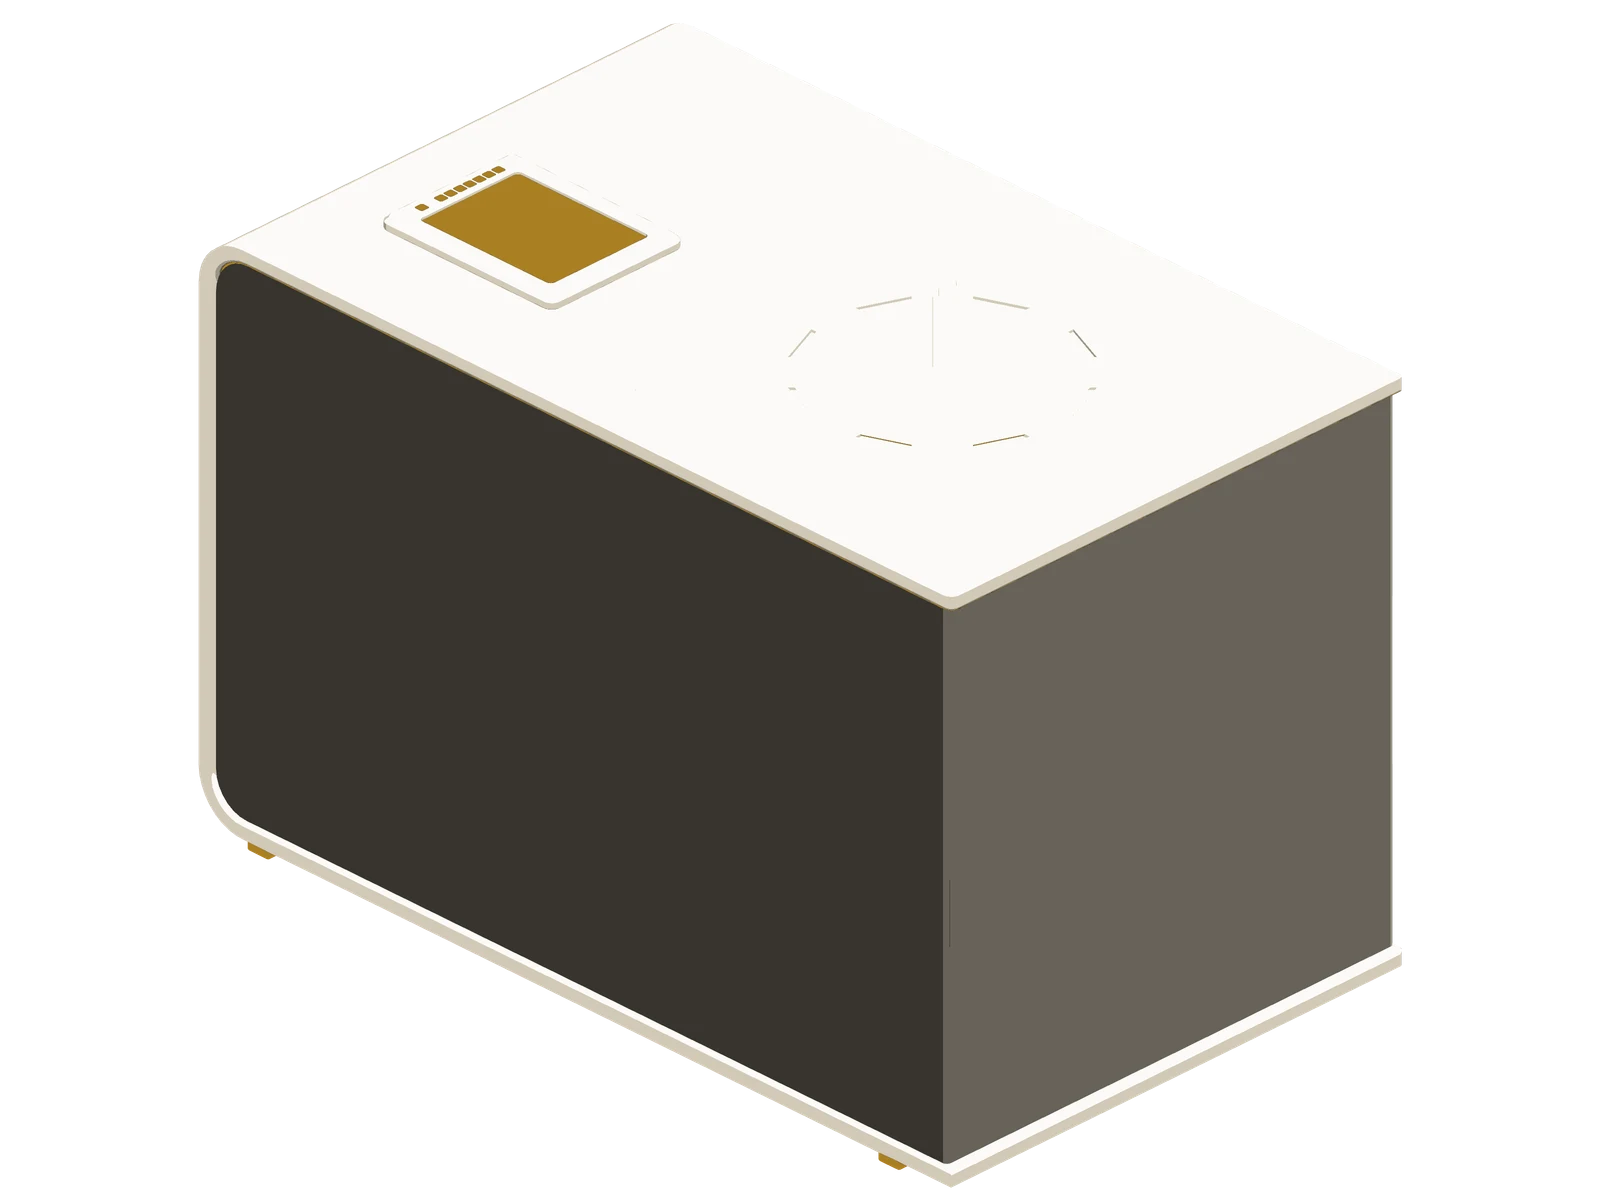
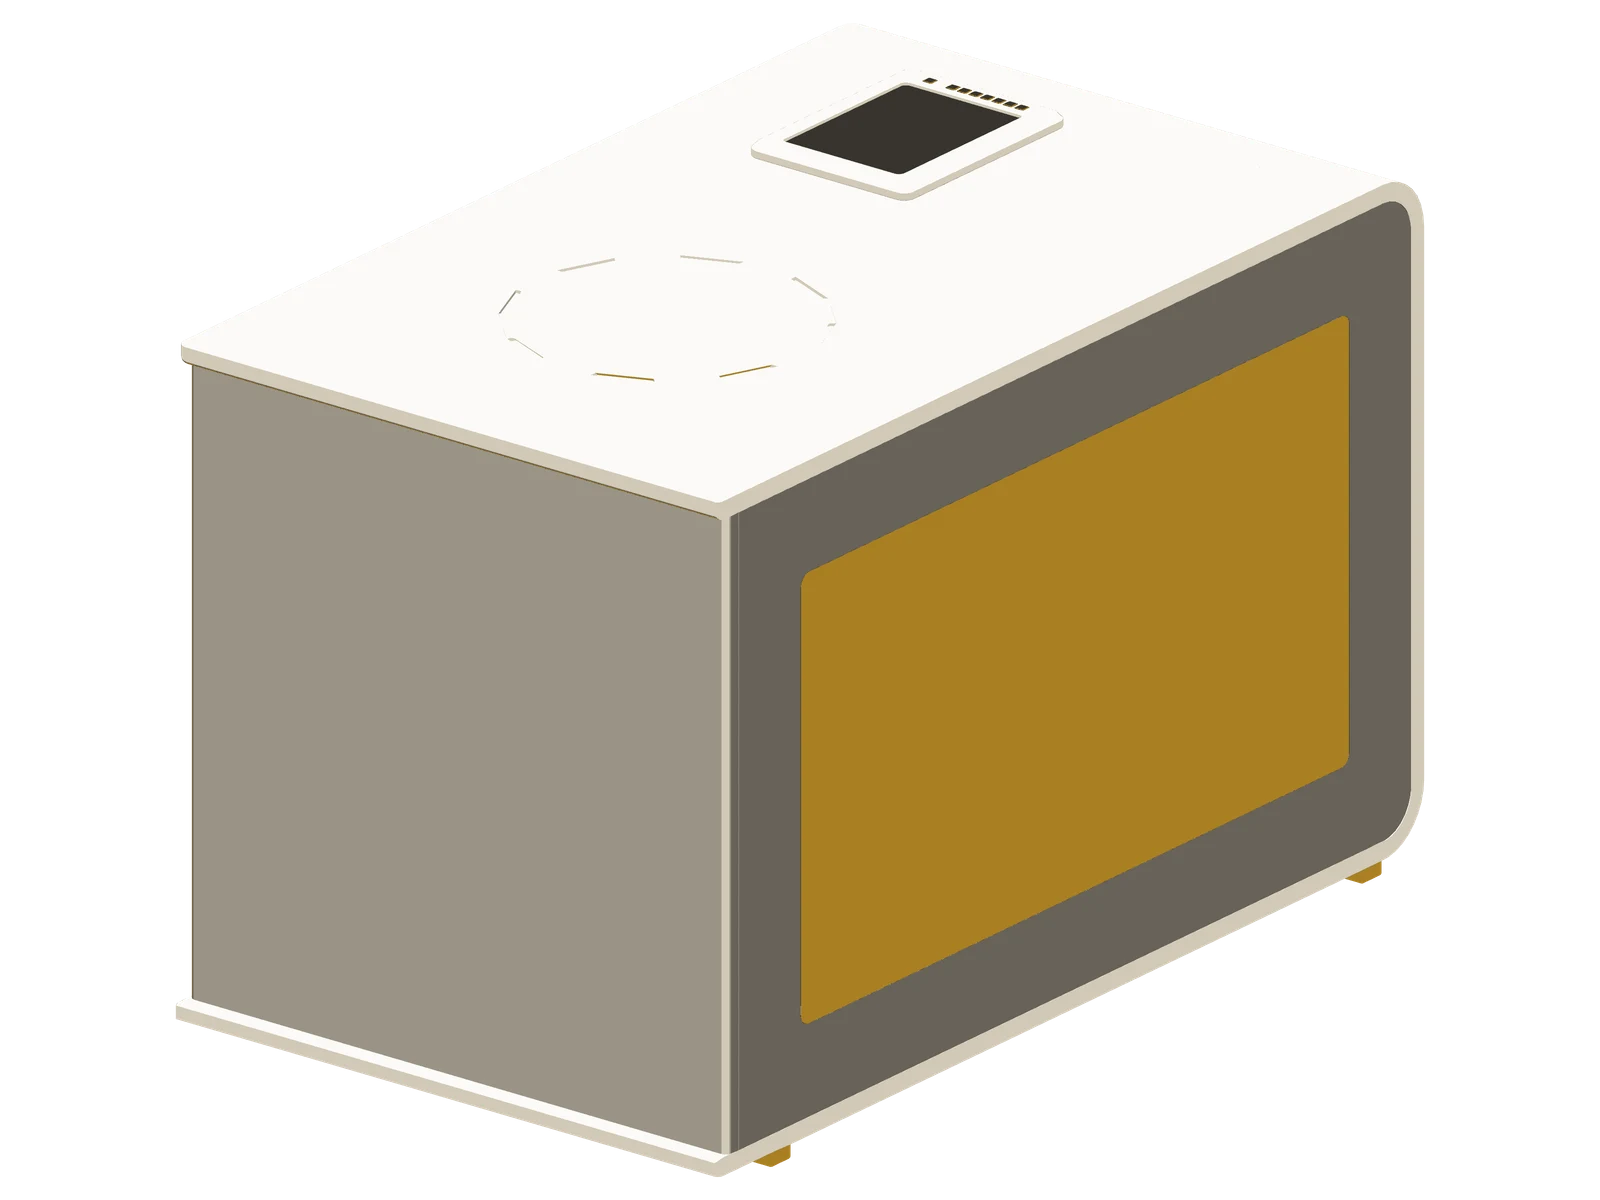
沙拉售卖机展示图改用首屏动画的初始视角（新增 view: hero）
Claude-Session: https://claude.ai/code/session_01RHnTsTuV2TU58onZ5s6z3H

diff --git a/z-OneHistoryID/网站风格.md b/z-OneHistoryID/网站风格.md
@@ -120,7 +120,7 @@
 
 1. **来源**：直接从三维模型渲染（Solid Edge / SolidWorks 导出的 STEP → `b-Code/models.py` 转 GLB → `b-Code/renders.mjs` 渲染），不用 README 里的截图。
 2. **构图**：
-   - 正交等轴测，取 CAD 的标准视角 **SE**（从右前上方看）或 **SW**（从左前上方看），每件选能看见正面的那个；
+   - 正交投影，视角取 CAD 的标准视角 **SE**（从右前上方看）、**SW**（从左前上方看），或 **hero**（首屏 3D 动画的初始视角：方位 38°、天顶角 68°，静态图与动画看起来是同一个角度）。每件选能看见正面的那个；沙拉售卖机用 hero；
    - 统一 **4 : 3**，1600 × 1200，透明底，模型按画面里的实际轮廓撑满，四周留 4%；
    - 模型必须是正常朝向：轮子、底座在下，车辆车头朝向看得见的一侧。CAD 导出的坐标轴不对时在配置里改 `up`（`z`、`-y` 等），不要靠转相机凑。
 3. **分层**：保留 CAD 装配颜色渲染，再按明度聚成 6 层（同一个零件落在同一层），每层整块填色阶 B 上的一档，不留渐变：
